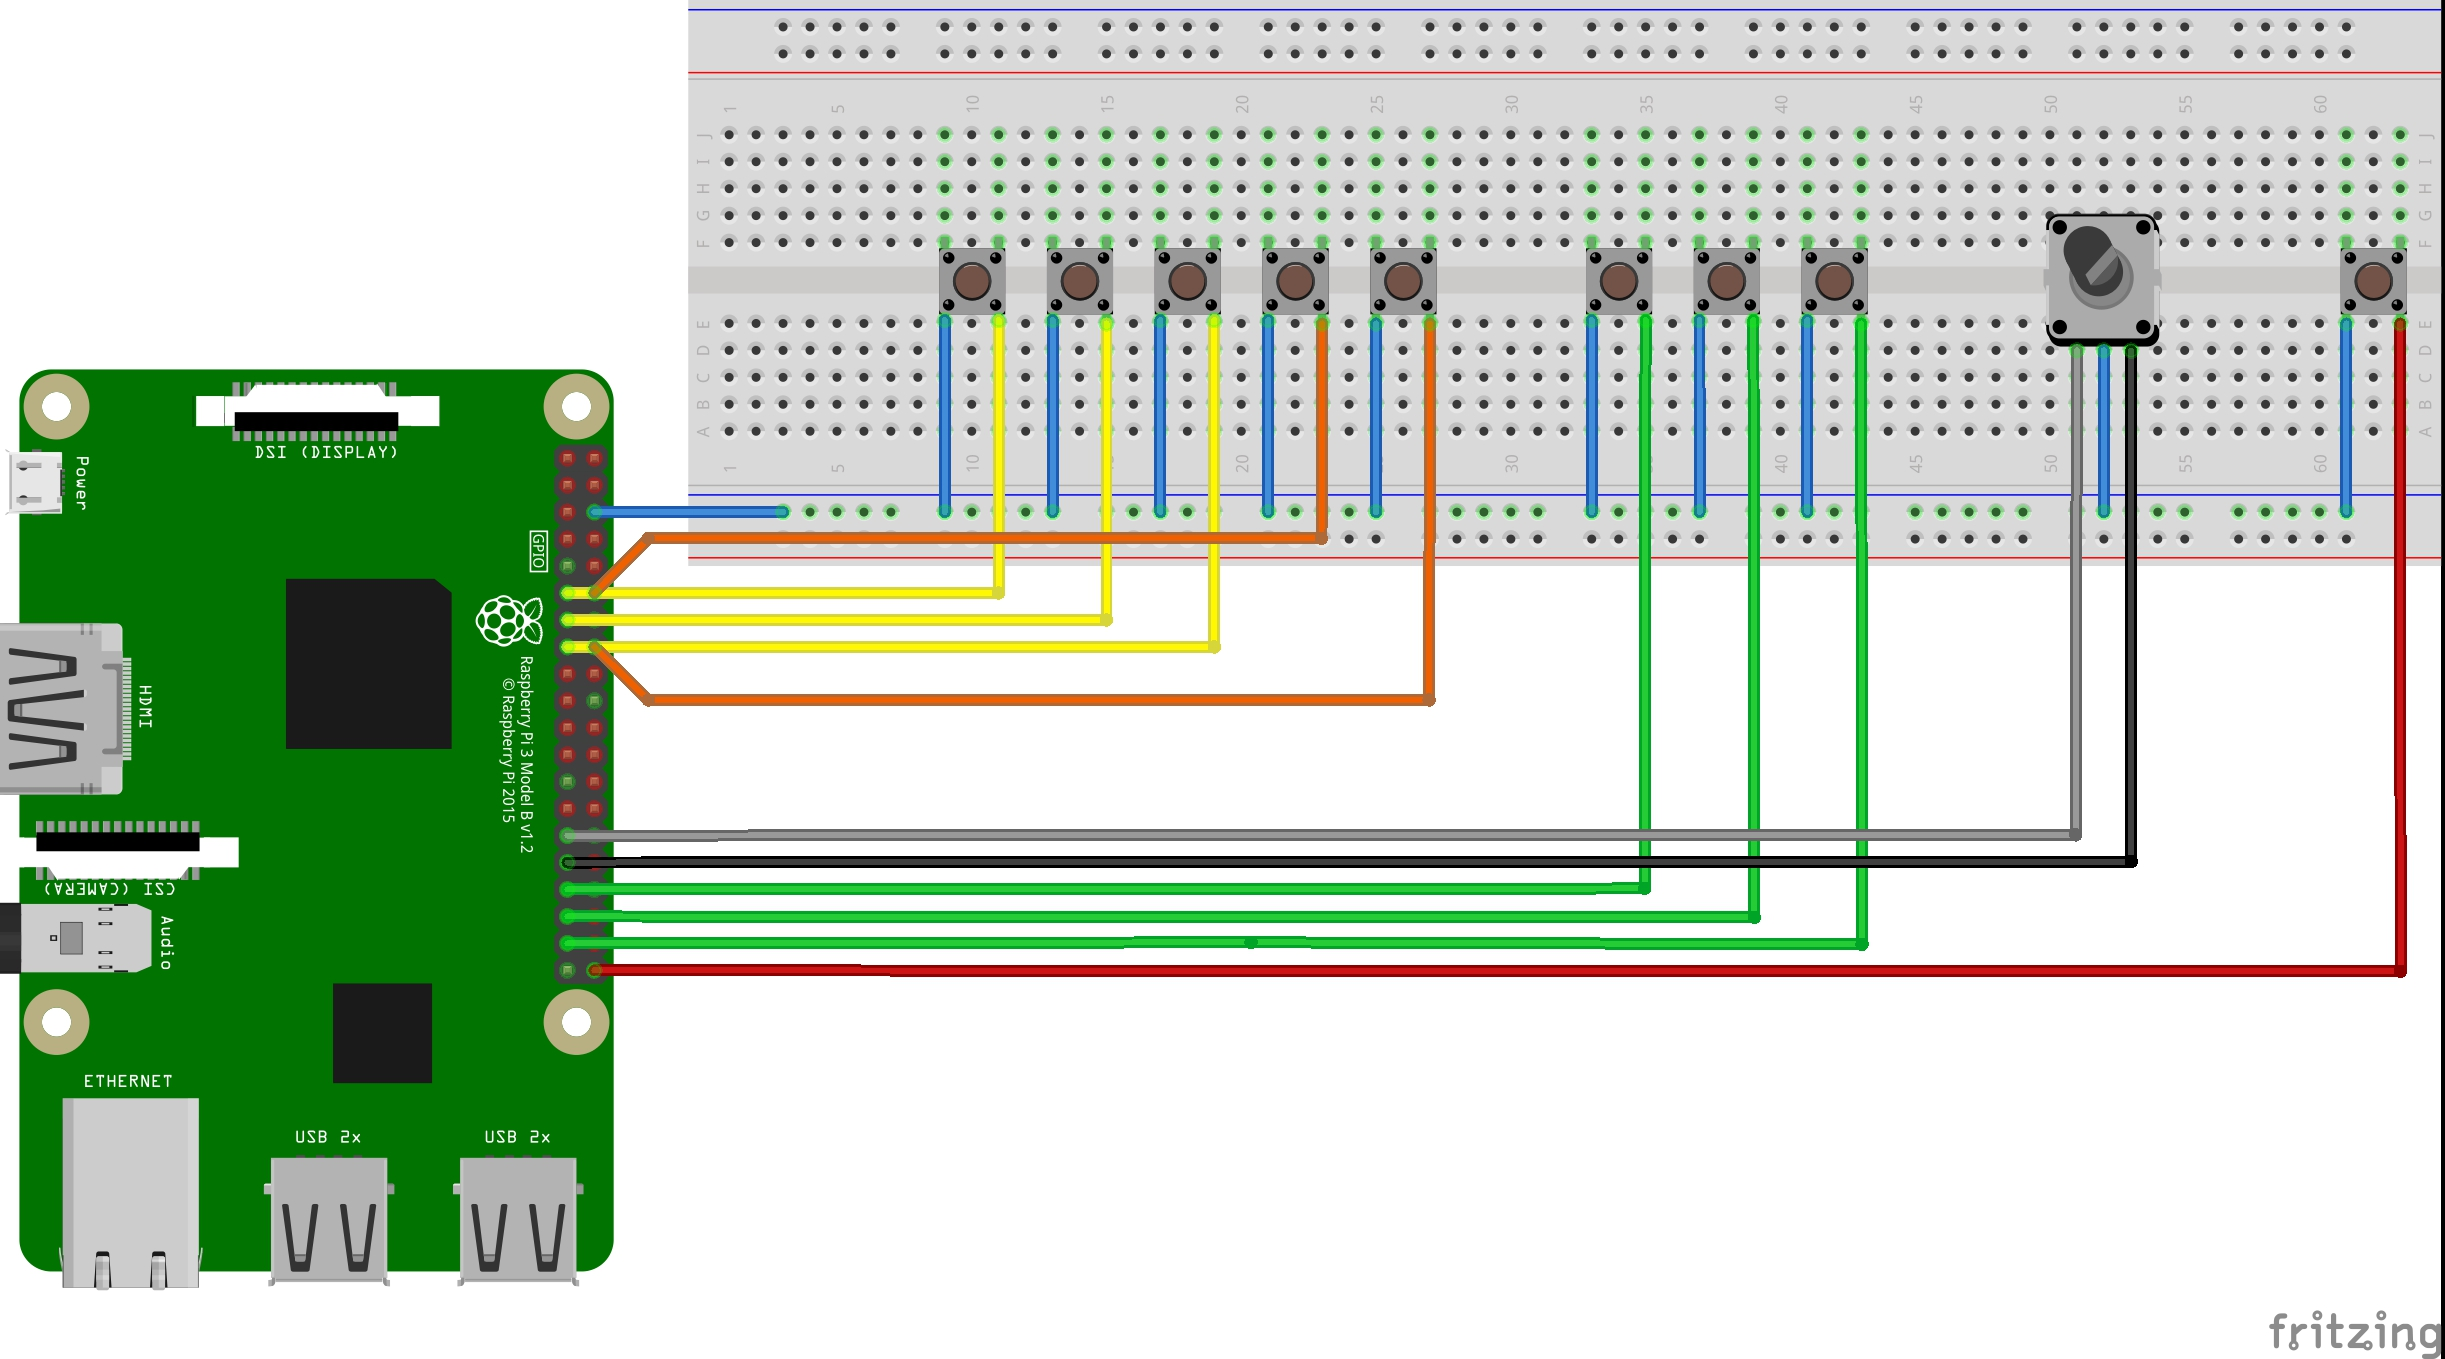
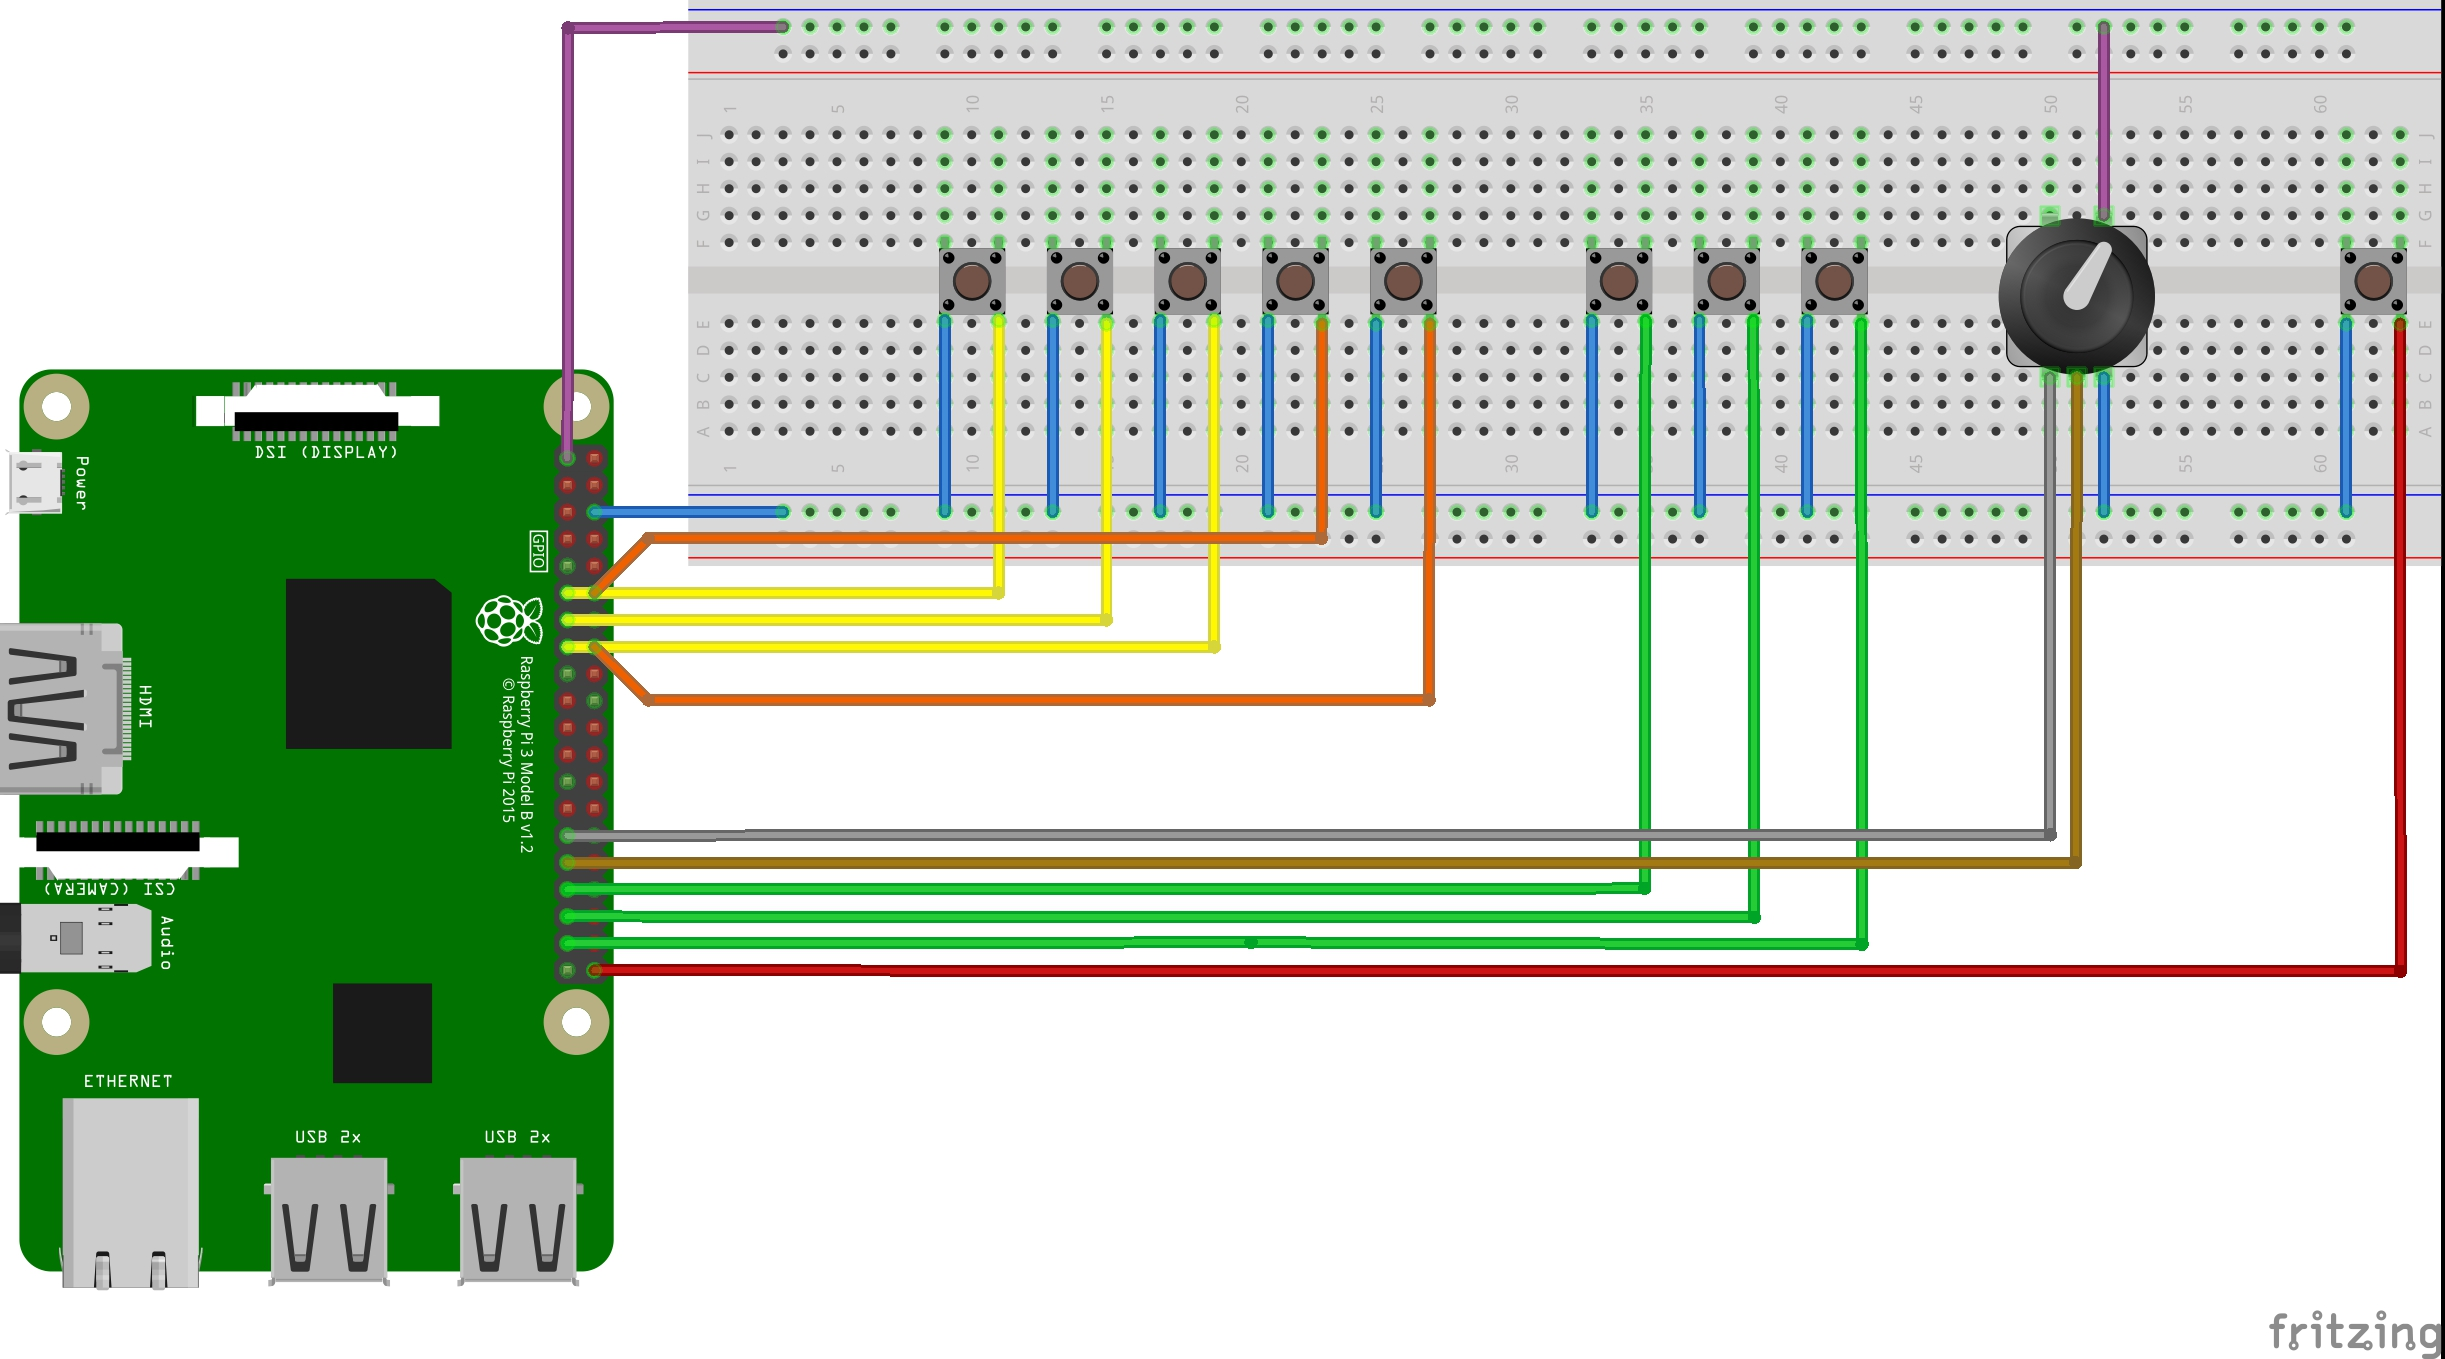
Added better representation of rotary encoder (5 PIN VS 3 PIN). Added test code to use rotary encoder as volume control.

Changed region(s): [[0.2176, 0.0, 0.9636, 0.649], [0.2176, 0.0, 0.4973, 0.34]]

diff --git a/volume_test1.py b/volume_test1.py
@@ -1,0 +1,46 @@
+#!/usr/bin/env python
+# -*- coding: utf-8 -*-
+# Assumes switch is connected to GND - so uses PULL UP
+from RPi.GPIO import GPIO
+from time import sleep
+
+#Define GPIO Pins that have buttons
+play_pause = 27     #Play/pause mpc toggle
+stop = 22           #mpc stop
+prev_track = 18     #mpc prev
+next_track = 23     #mpc next
+stn_1 = 13          #radio station from playlist
+stn_2 = 12          #radio station from playlist
+stn_3 = 26          #radio station from playlist
+
+power_off = 20      # sudo halt now
+
+clk = 5            #volume dial clk
+dt = 6             #volume dial dt
+
+GPIO.setmode(GPIO.BCM)
+GPIO.setup(clk, GPIO.IN, pull_up_down=GPIO.PUD_DOWN)
+GPIO.setup(dt, GPIO.IN, pull_up_down=GPIO.PUD_DOWN)
+
+volume = 0
+clkLastState = GPIO.input(clk)
+
+def changeVol(newVolume):
+    print ("New volume is " + newVolume)
+
+try:
+
+    while True:
+        clkState = GPIO.input(clk)
+        dtState = GPIO.input(dt)
+        if clkState != clkLastState:
+            if dtState != clkState:
+                volume += 1
+            else:
+                volume -= 1
+            print volume
+            #changeVol(volume)
+        clkLastState = clkState
+        sleep(0.01)
+finally:
+        GPIO.cleanup()
